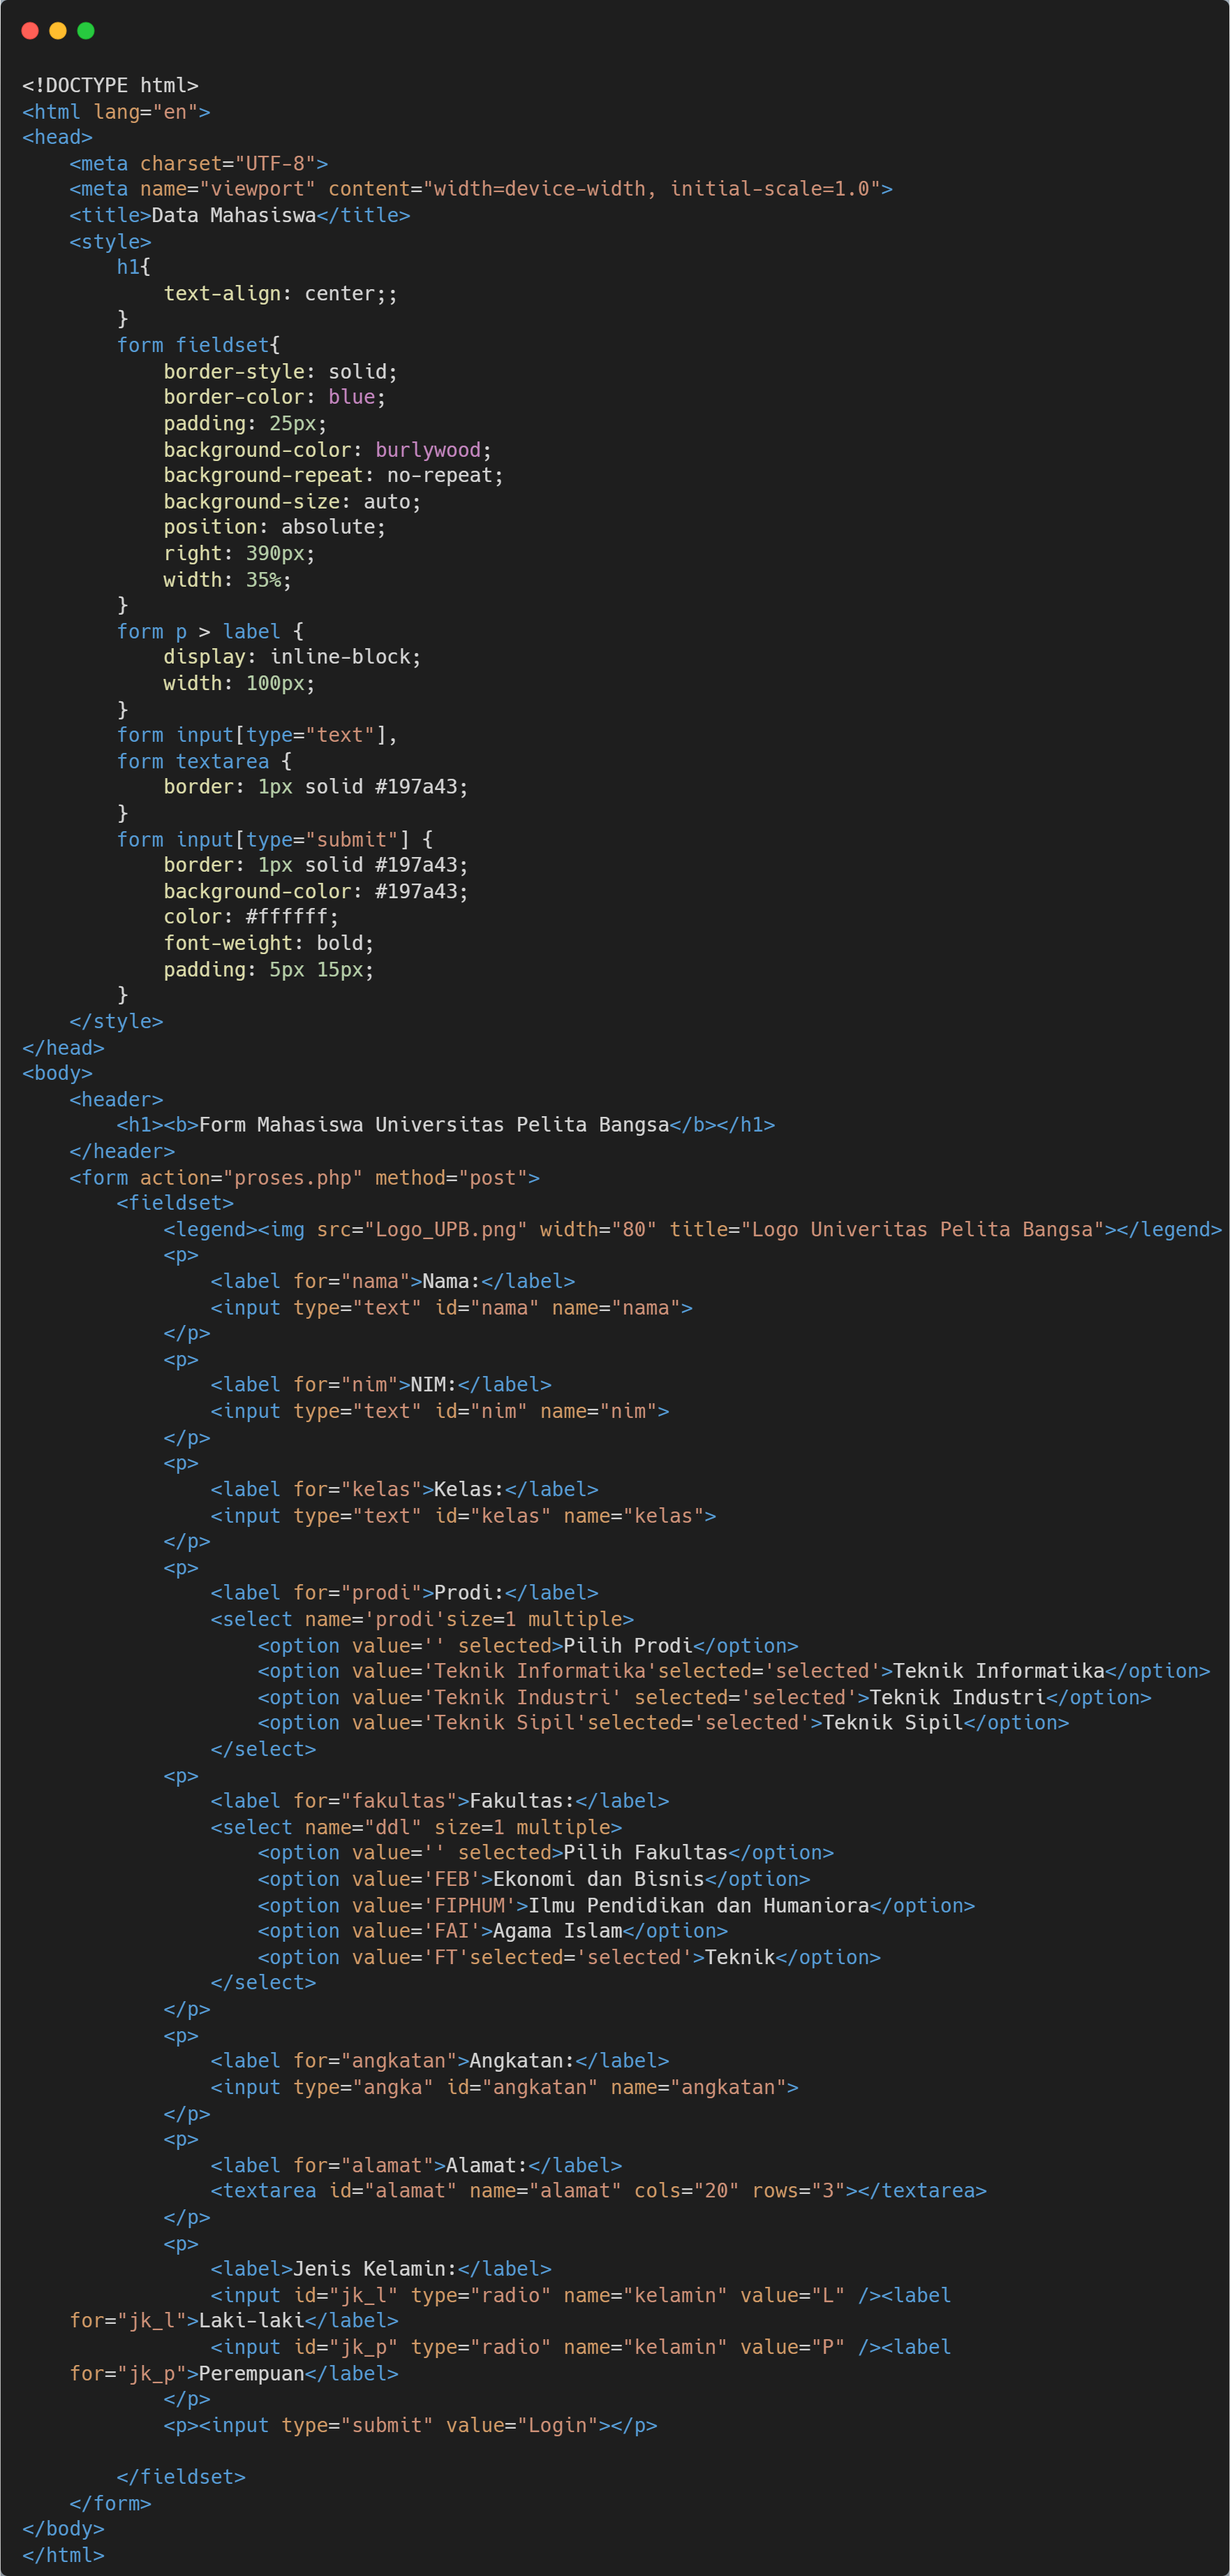
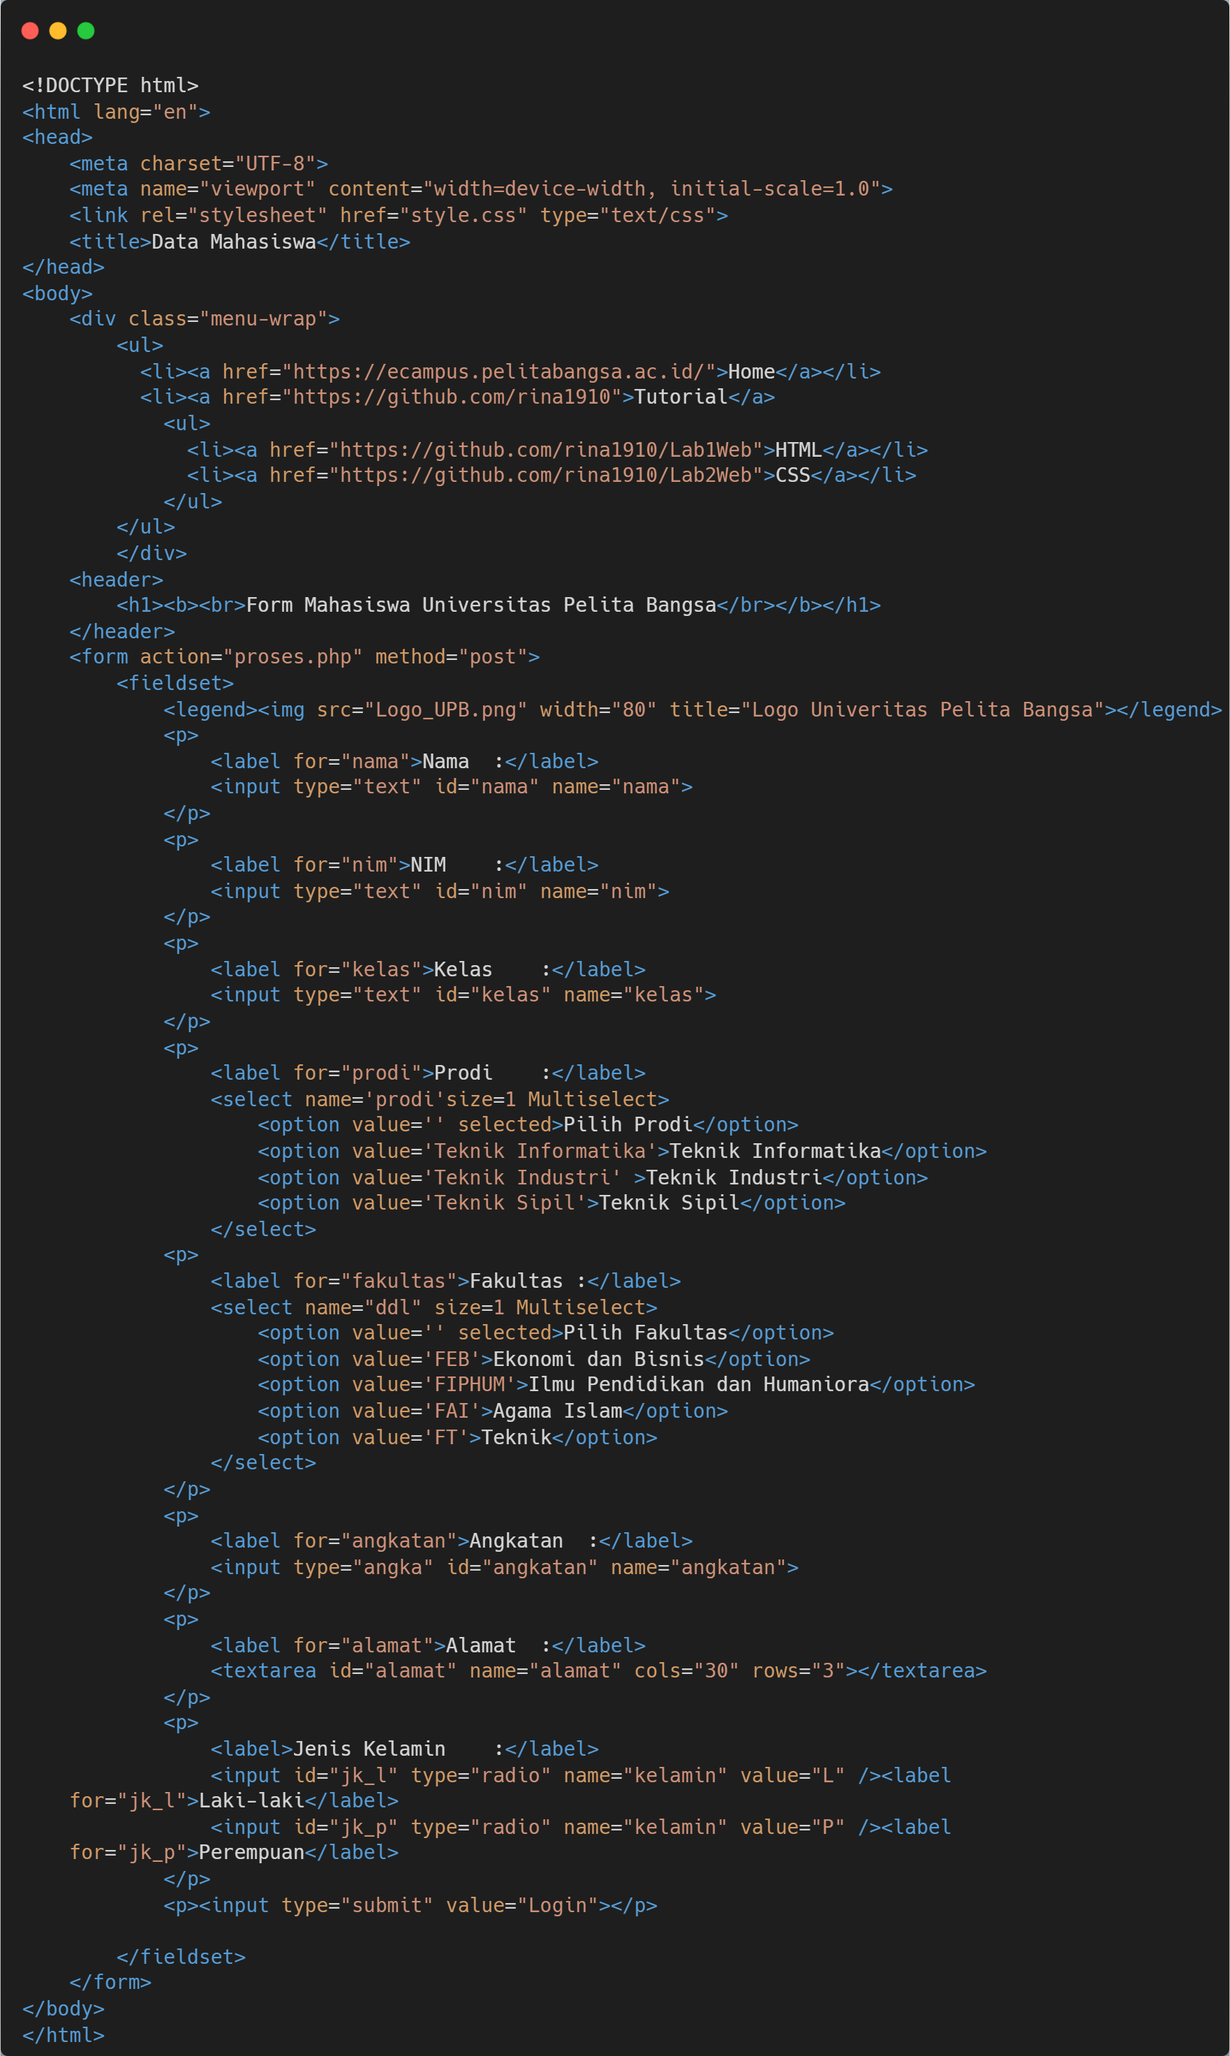
p

diff --git a/lab3_form-dropdown.html b/lab3_form-dropdown.html
@@ -3,86 +3,66 @@
 <head>
     <meta charset="UTF-8">
     <meta name="viewport" content="width=device-width, initial-scale=1.0">
+    <link rel="stylesheet" href="style.css" type="text/css">
     <title>Data Mahasiswa</title>
-    <style>
-        h1{
-            text-align: center;;
-        }
-        form fieldset{
-            border-style: solid;
-            border-color: blue;   
-            padding: 25px;
-            background-color: burlywood;
-            background-repeat: no-repeat;
-            background-size: auto;
-            position: absolute; 
-            right: 390px;
-            width: 35%; 
-        }
-        form p > label {
-            display: inline-block;
-            width: 100px;
-        }
-        form input[type="text"], 
-        form textarea {
-            border: 1px solid #197a43;
-        }
-        form input[type="submit"] {
-            border: 1px solid #197a43;
-            background-color: #197a43;
-            color: #ffffff;
-            font-weight: bold;
-            padding: 5px 15px;
-        }
-    </style>
 </head>
 <body>
+    <div class="menu-wrap">
+        <ul>
+          <li><a href="https://ecampus.pelitabangsa.ac.id/">Home</a></li>
+          <li><a href="https://github.com/rina1910">Tutorial</a>
+            <ul>
+              <li><a href="https://github.com/rina1910/Lab1Web">HTML</a></li>
+              <li><a href="https://github.com/rina1910/Lab2Web">CSS</a></li>
+            </ul>
+        </ul>
+        </div>
     <header>
-        <h1><b>Form Mahasiswa Universitas Pelita Bangsa</b></h1>
+        <h1><b><br>Form Mahasiswa Universitas Pelita Bangsa</br></b></h1>
     </header>
     <form action="proses.php" method="post">
         <fieldset>
             <legend><img src="Logo_UPB.png" width="80" title="Logo Univeritas Pelita Bangsa"></legend>
             <p>
-                <label for="nama">Nama:</label>
+                <label for="nama">Nama  :</label>
                 <input type="text" id="nama" name="nama">
             </p>
             <p>
-                <label for="nim">NIM:</label>
+                <label for="nim">NIM    :</label>
                 <input type="text" id="nim" name="nim">
             </p>
             <p>
-                <label for="kelas">Kelas:</label>
+                <label for="kelas">Kelas    :</label>
                 <input type="text" id="kelas" name="kelas">
             </p>
             <p>
-                <label for="prodi">Prodi:</label>
-                <select name='prodi'size=1 multiple>
+                <label for="prodi">Prodi    :</label>
+                <select name='prodi'size=1 Multiselect>
                     <option value='' selected>Pilih Prodi</option>
-                    <option value='Teknik Informatika'selected='selected'>Teknik Informatika</option>
-                    <option value='Teknik Industri' selected='selected'>Teknik Industri</option>
-                    <option value='Teknik Sipil'selected='selected'>Teknik Sipil</option>
-                </select>
+                    <option value='Teknik Informatika'>Teknik Informatika</option>
+                    <option value='Teknik Industri' >Teknik Industri</option>
+                    <option value='Teknik Sipil'>Teknik Sipil</option>
+                </select> 
             <p>
-                <label for="fakultas">Fakultas:</label>
-                <select name="ddl" size=1 multiple>
+                <label for="fakultas">Fakultas :</label>
+                <select name="ddl" size=1 Multiselect>
                     <option value='' selected>Pilih Fakultas</option>
                     <option value='FEB'>Ekonomi dan Bisnis</option>
                     <option value='FIPHUM'>Ilmu Pendidikan dan Humaniora</option>
                     <option value='FAI'>Agama Islam</option>
-                    <option value='FT'selected='selected'>Teknik</option>
+                    <option value='FT'>Teknik</option>
                 </select>
             </p>
             <p>
-                <label for="angkatan">Angkatan:</label>
+                <label for="angkatan">Angkatan  :</label>
                 <input type="angka" id="angkatan" name="angkatan">
             </p>
             <p>
-                <label for="alamat">Alamat:</label>
-                <textarea id="alamat" name="alamat" cols="20" rows="3"></textarea>
+                <label for="alamat">Alamat  :</label>
+                <textarea id="alamat" name="alamat" cols="30" rows="3"></textarea>
             </p>
             <p>
-                <label>Jenis Kelamin:</label>
+                <label>Jenis Kelamin    :</label>
                 <input id="jk_l" type="radio" name="kelamin" value="L" /><label
     for="jk_l">Laki-laki</label>
                 <input id="jk_p" type="radio" name="kelamin" value="P" /><label
@@ -91,6 +71,6 @@
             <p><input type="submit" value="Login"></p>
             
         </fieldset>
-    </form>     
+    </form>    
 </body>
 </html>

diff --git a/style.css b/style.css
@@ -1,0 +1,94 @@
+/* lab3_form-dropdown */
+* {margin: 1px; padding: 0;}
+ 
+body {
+background-color:#fff;
+font-family:Arial, Helvetica, sans-serif;
+color:#FFF;
+ }
+
+ .menu-wrap {
+background-color: #20A759; 
+height:50px; 
+line-height:50px; 
+position:relative;
+width:100%;
+margin:auto;
+margin-top:auto;
+ }
+
+.menu-wrap ul {
+list-style:none;
+ }
+
+.menu-wrap ul li a {
+float:left; 
+width:150px; 
+display:block; 
+text-align:center; 
+color:#FFF; 
+text-decoration:none; 
+text-transform:uppercase;
+ }
+
+.menu-wrap ul li a:hover {
+background-color:#20A759; 
+display:block;
+ }
+
+.menu-wrap ul li:hover ul {
+display:block;
+ }
+
+.menu-wrap ul ul {
+display:none; 
+list-style:none; 
+position:absolute; 
+background-color:#0b9097;
+left:150px; 
+top:50px; 
+width:150px;
+ }
+
+.menu-wrap ul ul li a {
+float:none; 
+display:block; 
+padding-left:30px; 
+text-align:left; 
+width:160px;
+ }
+
+.menu-wrap ul ul li a:hover {
+color:#fff;
+  }
+
+h1{
+   text-align: center;
+   color: blueviolet;
+}
+form fieldset{
+    border-style: solid;
+    border-color: blue;   
+    padding: 25px;
+    background-color: burlywood;
+    background-repeat: no-repeat;
+    background-size: auto;
+    position: absolute; 
+    right: 390px;
+    width: 35%; 
+}
+form p > label {
+    display: inline-block;
+    width: 120px;
+}
+form input[type="text"], 
+form textarea {
+    border: 1px solid #197a43;
+}
+form input[type="submit"] {
+    border: 1px solid #197a43;
+    background-color: #197a43;
+    color: #ffffff;
+    font-weight: bold;
+    padding: 5px 15px;
+}
